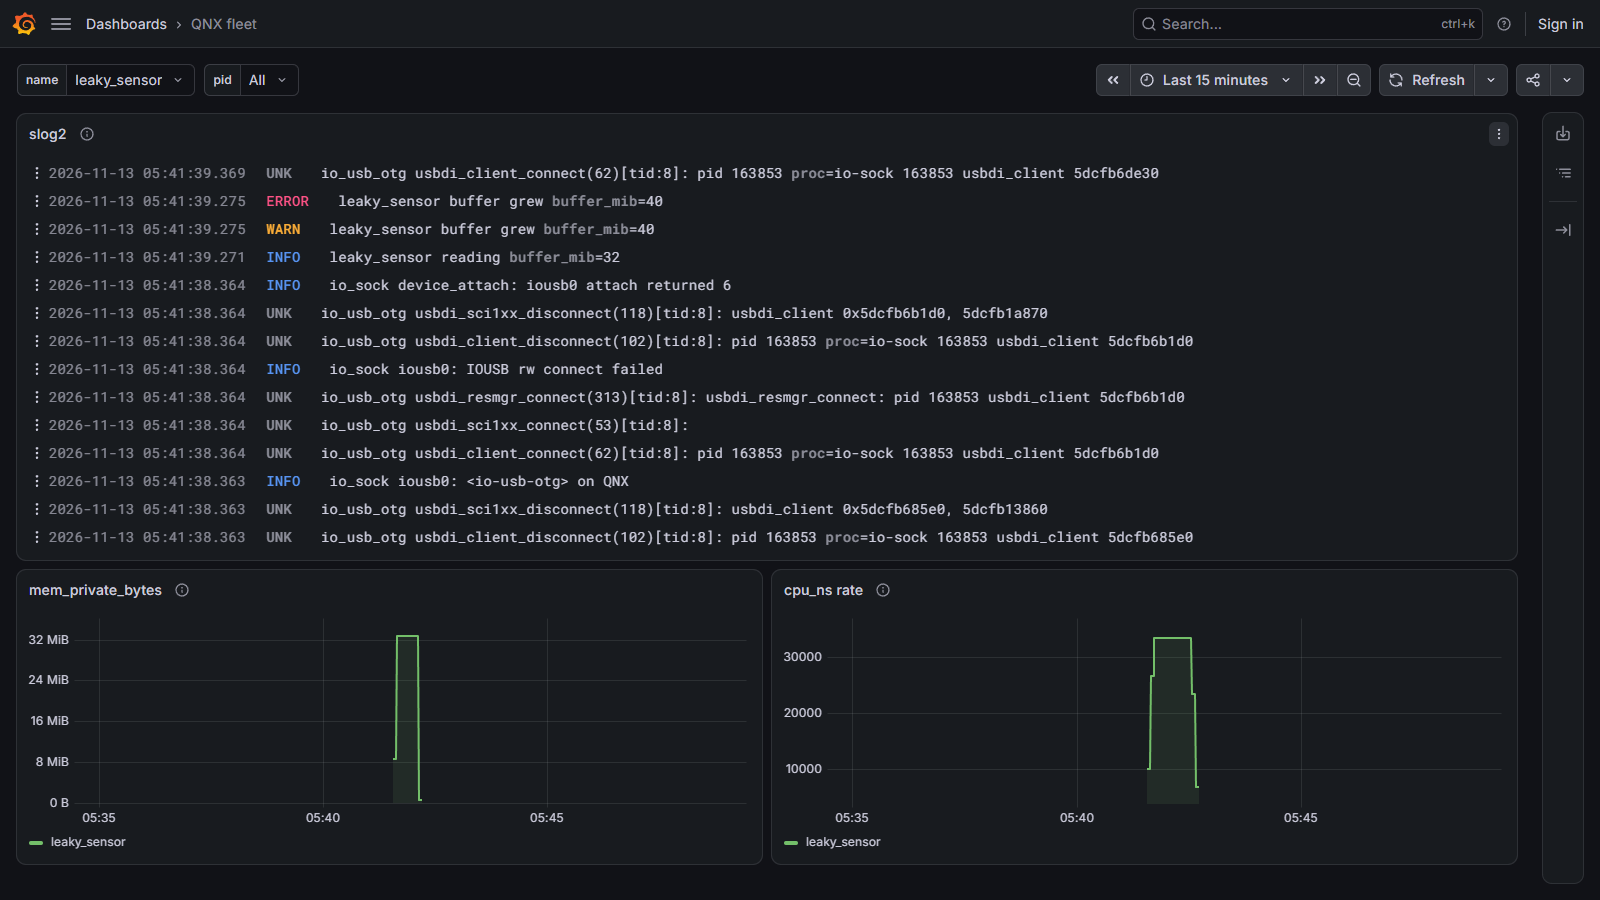
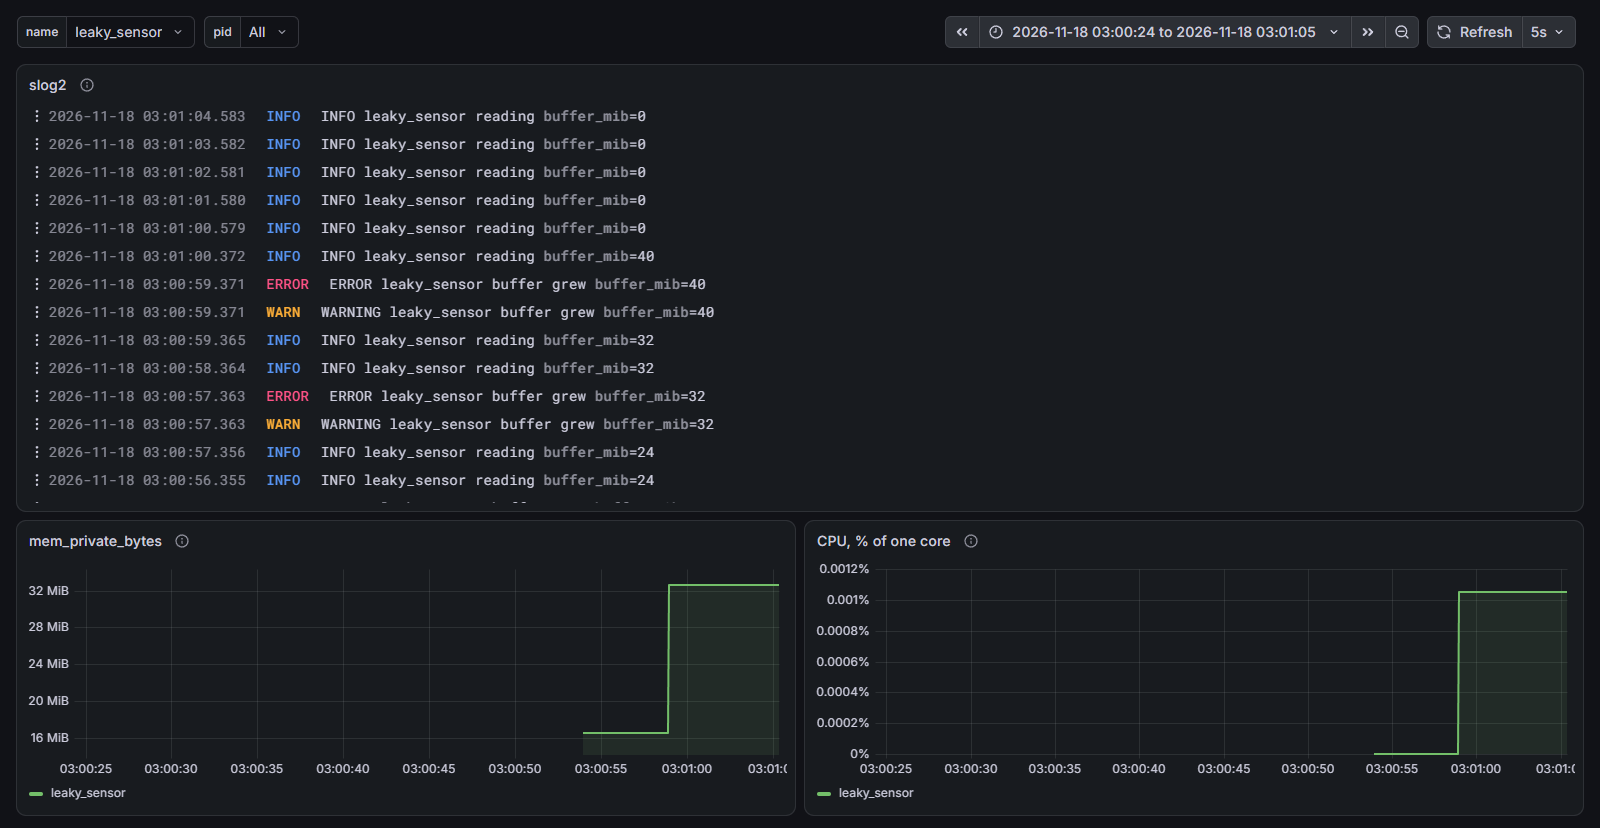
Fix the demo dashboard and retake its picture.
From the 2026-11-16 review. The README's headline picture showed half its
log lines as UNK and a CPU chart with no real meaning.

- slog2 panel: QNX severity names are mapped to Grafana's level names
  (ERROR red, WARNING yellow, INFO and NOTICE info, DEBUG1/2 debug), so no
  line shows as UNK. The panel now follows the name filter (buffer set),
  so the demo shows leaky_sensor's own lines; All shows every buffer set.
- Both charts extract only the fields they need (`| json name, pid, ...`).
  A bare `| json` turned every record field into a label, so each record
  became its own series.
- CPU chart: cpu_ns is a running total, so it now uses rate_counter and is
  shown as a percent of one core. The old panel used rate() on a counter.
- tools/demo.sh --hold SECONDS keeps everything running after the memory
  drop, for watching or filming the dashboard.
- tools/qemu-up.sh waits up to 15 s for /dev/kvm right after WSL starts
  (before that the target fell back to a far slower guest), says which
  mode it used, and takes QNX_QEMU_RAM to give the target less memory.
- docs/images/dashboard.png retaken from a real demo run in kiosk mode,
  footer cropped.

Checks on QEMU QNX 8.0 with QNX_QEMU_RAM=1024: tools/test-all.sh exit 0
(patches, clean build, 20 target tests, demo check) before the dashboard
and demo.sh edits; after them, two full `tools/demo.sh --hold` runs and
`tools/demo-check.sh` passed, and bad demo.sh options print the usage.
docs/test-log.txt did not change.

diff --git a/README.md b/README.md
@@ -42,7 +42,7 @@ Earlier work we found:
 
 ## Dashboard
 
-The picture at the top is the demo dashboard [QNX fleet](demo/host/grafana/dashboards/qnx-fleet.json): a slog2 panel, `mem_private_bytes`, and `cpu_ns rate`. The name filter in that picture is `leaky_sensor`. The pid filter is All. [`tools/demo-check.sh`](tools/demo-check.sh) checks that Loki stored a `leaky_sensor` INFO line, an ERROR line, and a rise in `mem_private_bytes`. [demo/README.md](demo/README.md) describes the run.
+The picture at the top is the demo dashboard [QNX fleet](demo/host/grafana/dashboards/qnx-fleet.json) during a demo run: `leaky_sensor` logs steady readings, then a WARNING and an ERROR each time its buffer grows, its private memory climbs, and the demo restarts it. The panels are the slog2 lines of the buffer sets the name filter selects, `mem_private_bytes`, and CPU as a percent of one core (the per-second increase of `cpu_ns`). The name filter in that picture is `leaky_sensor`. The pid filter is All. [`tools/demo-check.sh`](tools/demo-check.sh) checks that Loki stored a `leaky_sensor` INFO line, an ERROR line, and a rise in `mem_private_bytes`. [demo/README.md](demo/README.md) describes the run.
 
 ## Quick start
 
@@ -64,7 +64,7 @@ tools/deploy.sh         # copy the agent to the target
 tools/demo.sh           # agent, leaky_sensor and the live dashboard, narrated
 ```
 
-`tools/demo.sh` prints `http://127.0.0.1:3000/d/qnx-fleet/qnx-fleet`. That address is live only while `tools/demo.sh` is still running, because the script stops the charts on the way out. The same path with no browser is:
+`tools/demo.sh` prints `http://127.0.0.1:3000/d/qnx-fleet/qnx-fleet`. That address is live only while `tools/demo.sh` is still running, because the script stops the charts on the way out. `tools/demo.sh --hold 300` keeps everything running for 300 seconds after the memory drop, so the dashboard can be watched or filmed. The same path with no browser is:
 
 ```bash
 tools/demo-check.sh
@@ -172,7 +172,7 @@ Jake Hoffman built this by directing AI coding agents. The port was implemented 
 - Not exercised yet: saved chunks coming back after the agent restarts, TLS to a real endpoint, tail `db=`, and file rotation.
 - Unix-socket peer pid is unavailable on QNX ([`0009`](patches/0009-network-skip-SO_PEERCRED-unix-socket-peer-pid-on-QNX.patch)).
 - slog2: the parser's queue drops its oldest packets when it is full, and a parser thread still blocked inside `slog2_parse_all` is not reclaimed during an in-process reload ([buffering and shutdown limits](docs/porting-notes.md#slog2-buffering-and-shutdown-limits)).
-- Dashboard: the name control is a fixed choice in the dashboard file, not a live list, and NOTICE lines have no color of their own.
+- Dashboard: the name control is a fixed choice in the dashboard file, not a live list, and NOTICE lines share the INFO color (the line itself still says NOTICE).
 
 Details are in [docs/porting-notes.md](docs/porting-notes.md).
 

diff --git a/demo/README.md b/demo/README.md
@@ -6,9 +6,9 @@ This runs the QNX agent against a local Loki and Grafana so slog2 lines and per-
 
 - Loki on `0.0.0.0:3100`, with files under `$HOME/.local/share/fluent-bit-qnx-demo`.
 - Grafana on `127.0.0.1:3000`, anonymous viewer, dashboard at `/d/qnx-fleet/qnx-fleet`.
-- Panel 1: slog2 lines from every buffer set, with ERROR highlighted.
+- Panel 1: slog2 lines from the buffer sets the `name` filter selects (All shows every buffer set). Each line keeps its QNX severity, and the level color is ERROR red, WARNING yellow, INFO and NOTICE blue.
 - Panel 2: `mem_private_bytes` per process name (`unwrap` on `qnx_proc` records).
-- Panel 3: `cpu_ns` rate per process name.
+- Panel 3: CPU as a percent of one core per process name: the per-second increase of the `cpu_ns` running total (`rate_counter`), divided by 10^7.
 - `name` and `pid` variables to narrow those series. `name` starts at `leaky_sensor`. `pid` starts at all pids so a restart stays on the chart.
 
 `leaky_sensor` registers the slog2 buffer set `leaky_sensor`, logs an INFO reading every second, and after `--leak-after N` seconds allocates and touches 8 MiB every other second. Each growth logs WARNING, then ERROR.
@@ -22,7 +22,7 @@ tools/demo.sh
 tools/demo-check.sh
 ```
 
-`tools/demo.sh --headless` is the same narrated run for an unattended check. The check runs that mode and queries Loki for `leaky_sensor` INFO lines, ERROR lines, and rising `mem_private_bytes`. It prints `demo check passed` or the first missing item.
+`tools/demo.sh --hold SECONDS` keeps the dashboard, agent and `leaky_sensor` running for that long after the memory drop, for watching or filming. `tools/demo.sh --headless` is the same narrated run for an unattended check. The check runs that mode and queries Loki for `leaky_sensor` INFO lines, ERROR lines, and rising `mem_private_bytes`. It prints `demo check passed` or the first missing item.
 
 The demo starts the agent with `tools/start-agent.sh` at priority 8 and Loki `10.0.2.2:3100`. It reuses the running QEMU target. It stops the agent, `leaky_sensor`, Loki, and Grafana on the way out.
 

diff --git a/docs/porting-notes.md b/docs/porting-notes.md
@@ -102,7 +102,7 @@ QNX (no `getentropy()`); Fluent Bit has a fallback.
 - Unix-socket peer pid is unavailable (0009).
 - Compiler warnings (46 in the spike build) have not been triaged.
 - A live process-name list is still open. The dashboard `name` control is a fixed value.
-- A colored NOTICE line is still open. `in_slog2` maps the NOTICE severity; `slog2_lines_arrive_with_severity` checks INFO, WARNING, and ERROR.
+- NOTICE lines share the INFO color on the demo dashboard. `in_slog2` maps the NOTICE severity; `slog2_lines_arrive_with_severity` checks INFO, WARNING, and ERROR.
 
 ## slog2 buffering and shutdown limits
 
